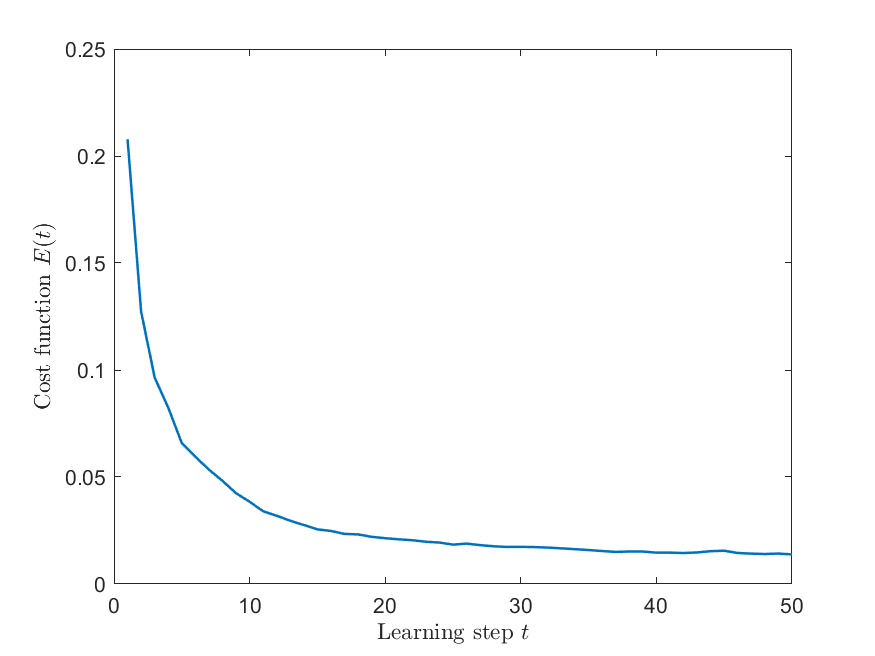
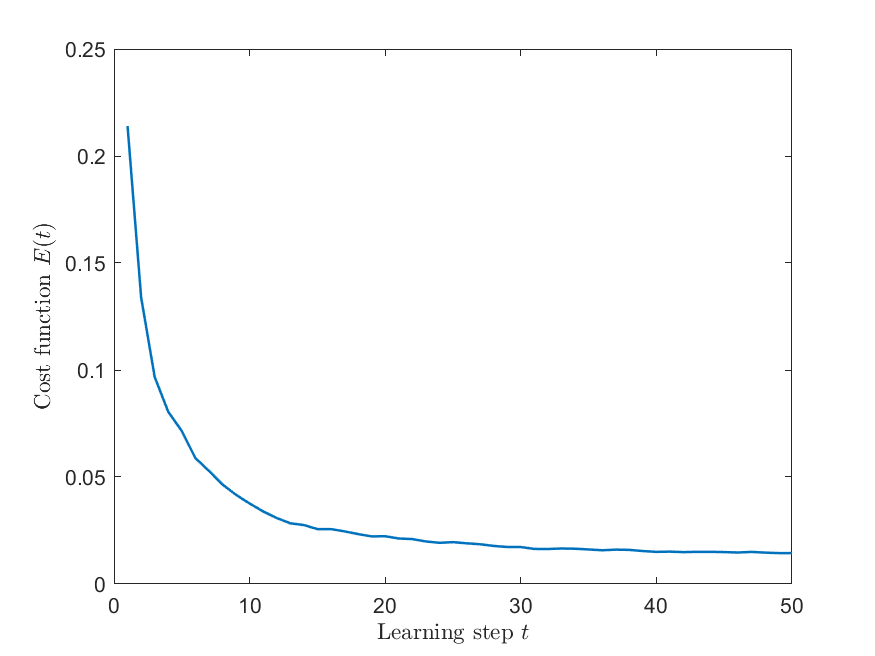
Added generalization error to differenteta.png

diff --git a/Stochastic Gradient Descent/linspecer.m b/Stochastic Gradient Descent/linspecer.m
@@ -1,0 +1,261 @@
+% function lineStyles = linspecer(N)
+% This function creates an Nx3 array of N [R B G] colors
+% These can be used to plot lots of lines with distinguishable and nice
+% looking colors.
+% 
+% lineStyles = linspecer(N);  makes N colors for you to use: lineStyles(ii,:)
+% 
+% colormap(linspecer); set your colormap to have easily distinguishable 
+%                      colors and a pleasing aesthetic
+% 
+% lineStyles = linspecer(N,'qualitative'); forces the colors to all be distinguishable (up to 12)
+% lineStyles = linspecer(N,'sequential'); forces the colors to vary along a spectrum 
+% 
+% % Examples demonstrating the colors.
+% 
+% LINE COLORS
+% N=6;
+% X = linspace(0,pi*3,1000); 
+% Y = bsxfun(@(x,n)sin(x+2*n*pi/N), X.', 1:N); 
+% C = linspecer(N);
+% axes('NextPlot','replacechildren', 'ColorOrder',C);
+% plot(X,Y,'linewidth',5)
+% ylim([-1.1 1.1]);
+% 
+% SIMPLER LINE COLOR EXAMPLE
+% N = 6; X = linspace(0,pi*3,1000);
+% C = linspecer(N)
+% hold off;
+% for ii=1:N
+%     Y = sin(X+2*ii*pi/N);
+%     plot(X,Y,'color',C(ii,:),'linewidth',3);
+%     hold on;
+% end
+% 
+% COLORMAP EXAMPLE
+% A = rand(15);
+% figure; imagesc(A); % default colormap
+% figure; imagesc(A); colormap(linspecer); % linspecer colormap
+% 
+%   See also NDHIST, NHIST, PLOT, COLORMAP, 43700-cubehelix-colormaps
+%%%%%%%%%%%%%%%%%%%%%%%%%%%%%%%%%%%%%%%%%%%%%%%%%%%%%%%%%%%%%%%%%%%%%%%%%%%
+% by Jonathan Lansey, March 2009-2013 ? Lansey at gmail.com               %
+%%%%%%%%%%%%%%%%%%%%%%%%%%%%%%%%%%%%%%%%%%%%%%%%%%%%%%%%%%%%%%%%%%%%%%%%%%%
+% 
+%% credits and where the function came from
+% The colors are largely taken from:
+% http://colorbrewer2.org and Cynthia Brewer, Mark Harrower and The Pennsylvania State University
+% 
+% 
+% She studied this from a phsychometric perspective and crafted the colors
+% beautifully.
+% 
+% I made choices from the many there to decide the nicest once for plotting
+% lines in Matlab. I also made a small change to one of the colors I
+% thought was a bit too bright. In addition some interpolation is going on
+% for the sequential line styles.
+% 
+% 
+%%
+
+function lineStyles=linspecer(N,varargin)
+
+if nargin==0 % return a colormap
+    lineStyles = linspecer(128);
+    return;
+end
+
+if ischar(N)
+    lineStyles = linspecer(128,N);
+    return;
+end
+
+if N<=0 % its empty, nothing else to do here
+    lineStyles=[];
+    return;
+end
+
+% interperet varagin
+qualFlag = 0;
+colorblindFlag = 0;
+
+if ~isempty(varargin)>0 % you set a parameter?
+    switch lower(varargin{1})
+        case {'qualitative','qua'}
+            if N>12 % go home, you just can't get this.
+                warning('qualitiative is not possible for greater than 12 items, please reconsider');
+            else
+                if N>9
+                    warning(['Default may be nicer for ' num2str(N) ' for clearer colors use: whitebg(''black''); ']);
+                end
+            end
+            qualFlag = 1;
+        case {'sequential','seq'}
+            lineStyles = colorm(N);
+            return;
+        case {'white','whitefade'}
+            lineStyles = whiteFade(N);return;
+        case 'red'
+            lineStyles = whiteFade(N,'red');return;
+        case 'blue'
+            lineStyles = whiteFade(N,'blue');return;
+        case 'green'
+            lineStyles = whiteFade(N,'green');return;
+        case {'gray','grey'}
+            lineStyles = whiteFade(N,'gray');return;
+        case {'colorblind'}
+            colorblindFlag = 1;
+        otherwise
+            warning(['parameter ''' varargin{1} ''' not recognized']);
+    end
+end      
+% *.95
+% predefine some colormaps
+  set3 = colorBrew2mat({[141, 211, 199];[ 255, 237, 111];[ 190, 186, 218];[ 251, 128, 114];[ 128, 177, 211];[ 253, 180, 98];[ 179, 222, 105];[ 188, 128, 189];[ 217, 217, 217];[ 204, 235, 197];[ 252, 205, 229];[ 255, 255, 179]}');
+set1JL = brighten(colorBrew2mat({[228, 26, 28];[ 55, 126, 184]; [ 77, 175, 74];[ 255, 127, 0];[ 255, 237, 111]*.85;[ 166, 86, 40];[ 247, 129, 191];[ 153, 153, 153];[ 152, 78, 163]}'));
+set1 = brighten(colorBrew2mat({[ 55, 126, 184]*.85;[228, 26, 28];[ 77, 175, 74];[ 255, 127, 0];[ 152, 78, 163]}),.8);
+
+% colorblindSet = {[215,25,28];[253,174,97];[171,217,233];[44,123,182]};
+colorblindSet = {[215,25,28];[253,174,97];[171,217,233]*.8;[44,123,182]*.8};
+
+set3 = dim(set3,.93);
+
+if colorblindFlag
+    switch N
+        %     sorry about this line folks. kind of legacy here because I used to
+        %     use individual 1x3 cells instead of nx3 arrays
+        case 4
+            lineStyles = colorBrew2mat(colorblindSet);
+        otherwise
+            colorblindFlag = false;
+            warning('sorry unsupported colorblind set for this number, using regular types');
+    end
+end
+if ~colorblindFlag
+    switch N
+        case 1
+            lineStyles = { [  55, 126, 184]/255};
+        case {2, 3, 4, 5 }
+            lineStyles = set1(1:N);
+        case {6 , 7, 8, 9}
+            lineStyles = set1JL(1:N)';
+        case {10, 11, 12}
+            if qualFlag % force qualitative graphs
+                lineStyles = set3(1:N)';
+            else % 10 is a good number to start with the sequential ones.
+                lineStyles = cmap2linspecer(colorm(N));
+            end
+        otherwise % any old case where I need a quick job done.
+            lineStyles = cmap2linspecer(colorm(N));
+    end
+end
+lineStyles = cell2mat(lineStyles);
+
+end
+
+% extra functions
+function varIn = colorBrew2mat(varIn)
+for ii=1:length(varIn) % just divide by 255
+    varIn{ii}=varIn{ii}/255;
+end        
+end
+
+function varIn = brighten(varIn,varargin) % increase the brightness
+
+if isempty(varargin),
+    frac = .9; 
+else
+    frac = varargin{1}; 
+end
+
+for ii=1:length(varIn)
+    varIn{ii}=varIn{ii}*frac+(1-frac);
+end        
+end
+
+function varIn = dim(varIn,f)
+    for ii=1:length(varIn)
+        varIn{ii} = f*varIn{ii};
+    end
+end
+
+function vOut = cmap2linspecer(vIn) % changes the format from a double array to a cell array with the right format
+vOut = cell(size(vIn,1),1);
+for ii=1:size(vIn,1)
+    vOut{ii} = vIn(ii,:);
+end
+end
+%%
+% colorm returns a colormap which is really good for creating informative
+% heatmap style figures.
+% No particular color stands out and it doesn't do too badly for colorblind people either.
+% It works by interpolating the data from the
+% 'spectral' setting on http://colorbrewer2.org/ set to 11 colors
+% It is modified a little to make the brightest yellow a little less bright.
+function cmap = colorm(varargin)
+n = 100;
+if ~isempty(varargin)
+    n = varargin{1};
+end
+
+if n==1
+    cmap =  [0.2005    0.5593    0.7380];
+    return;
+end
+if n==2
+     cmap =  [0.2005    0.5593    0.7380;
+              0.9684    0.4799    0.2723];
+          return;
+end
+
+frac=.95; % Slight modification from colorbrewer here to make the yellows in the center just a bit darker
+cmapp = [158, 1, 66; 213, 62, 79; 244, 109, 67; 253, 174, 97; 254, 224, 139; 255*frac, 255*frac, 191*frac; 230, 245, 152; 171, 221, 164; 102, 194, 165; 50, 136, 189; 94, 79, 162];
+x = linspace(1,n,size(cmapp,1));
+xi = 1:n;
+cmap = zeros(n,3);
+for ii=1:3
+    cmap(:,ii) = pchip(x,cmapp(:,ii),xi);
+end
+cmap = flipud(cmap/255);
+end
+
+function cmap = whiteFade(varargin)
+n = 100;
+if nargin>0
+    n = varargin{1};
+end
+
+thisColor = 'blue';
+
+if nargin>1
+    thisColor = varargin{2};
+end
+switch thisColor
+    case {'gray','grey'}
+        cmapp = [255,255,255;240,240,240;217,217,217;189,189,189;150,150,150;115,115,115;82,82,82;37,37,37;0,0,0];
+    case 'green'
+        cmapp = [247,252,245;229,245,224;199,233,192;161,217,155;116,196,118;65,171,93;35,139,69;0,109,44;0,68,27];
+    case 'blue'
+        cmapp = [247,251,255;222,235,247;198,219,239;158,202,225;107,174,214;66,146,198;33,113,181;8,81,156;8,48,107];
+    case 'red'
+        cmapp = [255,245,240;254,224,210;252,187,161;252,146,114;251,106,74;239,59,44;203,24,29;165,15,21;103,0,13];
+    otherwise
+        warning(['sorry your color argument ' thisColor ' was not recognized']);
+end
+
+cmap = interpomap(n,cmapp);
+end
+
+% Eat a approximate colormap, then interpolate the rest of it up.
+function cmap = interpomap(n,cmapp)
+    x = linspace(1,n,size(cmapp,1));
+    xi = 1:n;
+    cmap = zeros(n,3);
+    for ii=1:3
+        cmap(:,ii) = pchip(x,cmapp(:,ii),xi);
+    end
+    cmap = (cmap/255); % flipud??
+end
+
+
+

diff --git a/Stochastic Gradient Descent/regression.m b/Stochastic Gradient Descent/regression.m
@@ -48,9 +48,7 @@ saveas(gcf, 'costvsgeneralisation.png');
 
 %display the obtained, final weight vectors, for instance as bar graphs.
 figure();
-bar(mean(all_w1,2));
-hold on;
-bar(mean(all_w2,2));
+bar(1:50, [mean(all_w1,2) mean(all_w2,2)], 'BarWidth', 1);
 ylabel("Weight value", 'Interpreter', 'latex');
 xlabel("Component index", 'Interpreter', 'latex');
 % title("Average final weights for 40 random initialisations");
@@ -91,18 +89,23 @@ saveas(gcf, 'differentPerror.png')
 % influence of the learning rate ?. Investigating convergence for a larger
 % training set
 eta_list = [0.05 0.025 0.001 0.0001]; % learning rate
-PP =2000; % number of training sets
-QQ= 2000;
+PP =200; % number of training sets
+QQ= 200;
 
+colors = linspecer(length(eta_list));
+coliter = 1;
 figure();
+hold on;
 for et = eta_list % wo runs with random initialisations
     all_cost =[];
     for runs =1: 50
-    [~,~,E_cost,~] = sgd(xi,tau, PP,QQ,et,30);
-    all_cost(:,runs) = E_cost;
+        [~,~,E_cost,test_Error] = sgd(xi,tau, PP,QQ,et,30);
+        all_cost(:,runs) = E_cost;
+        all_t(:,runs) = test_Error;
     end
-    plot((1:30),mean(all_cost,2),"linewidth",1.2,'DisplayName',"\eta = "+et );
-    hold on;
+    plot((1:30),mean(all_cost,2),'color',colors(coliter, :),"linewidth",1.2,'DisplayName',"\eta = "+et );
+    plot((1:30),mean(all_t,2),'--','color',colors(coliter, :),"linewidth",1.2,'DisplayName',"\eta = "+et );
+    coliter = coliter + 1;
 end
 xlabel("Learning step $t$", 'Interpreter', 'latex');
 ylabel("Average cost function $E(t)$", 'Interpreter', 'latex');
